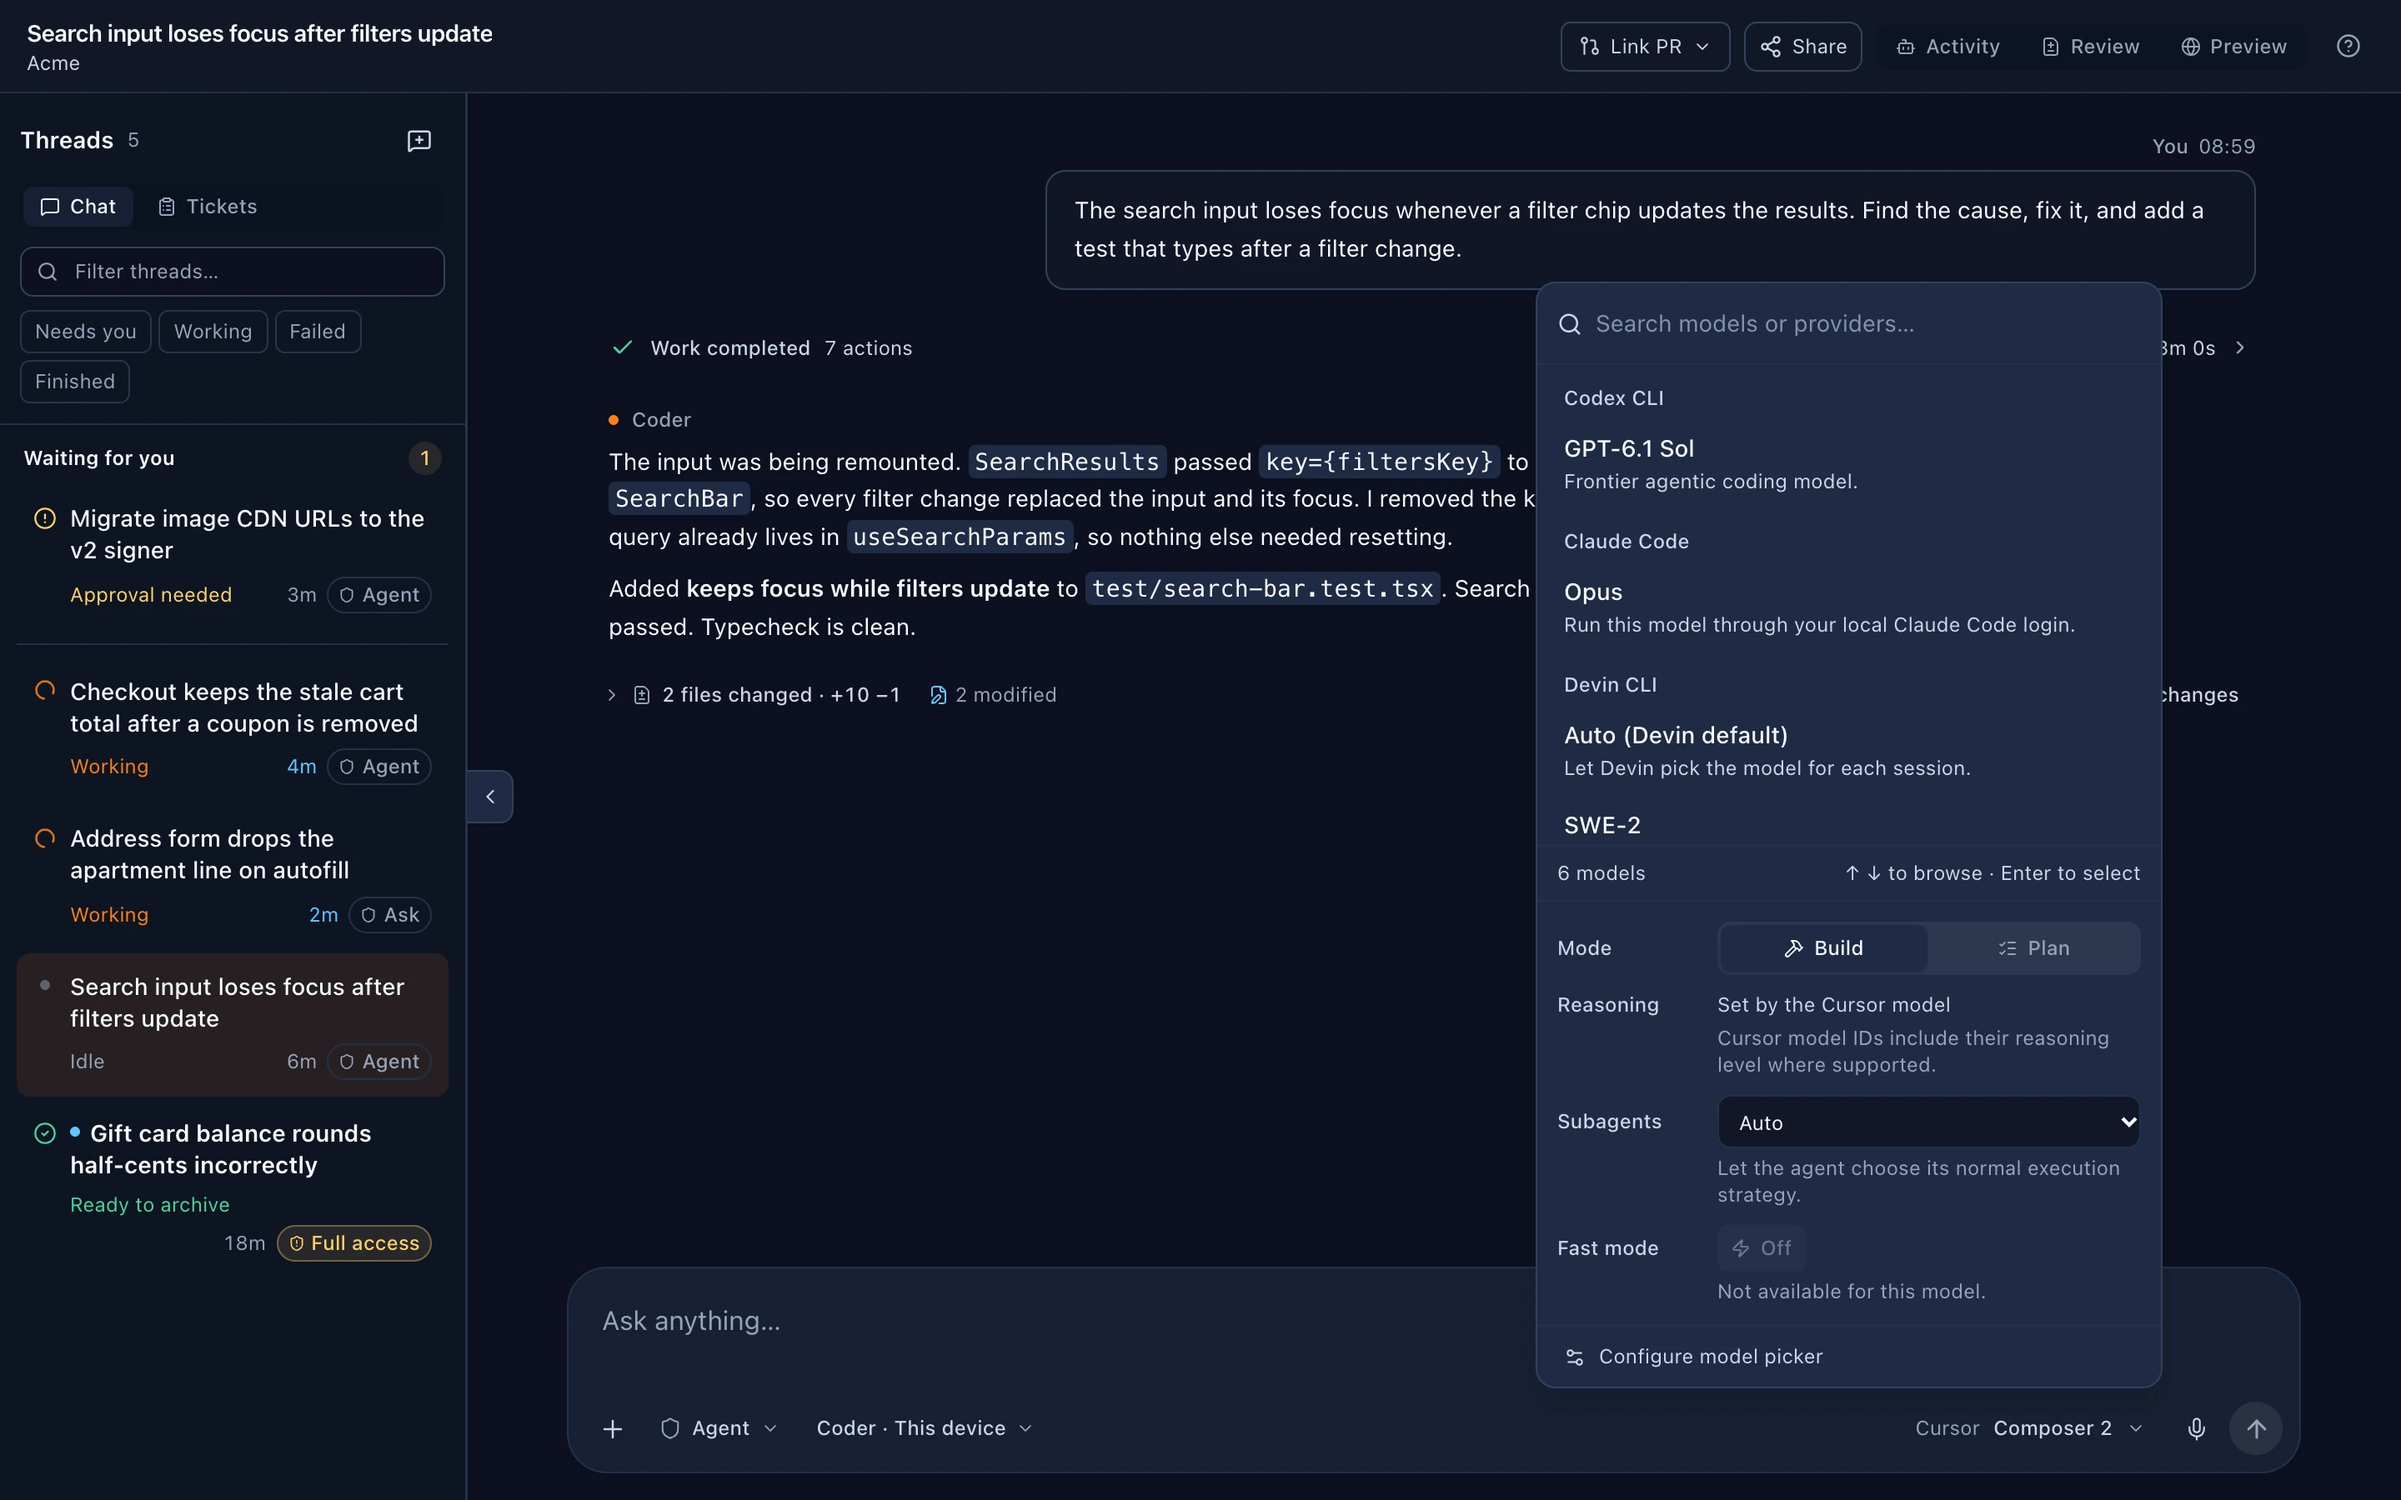
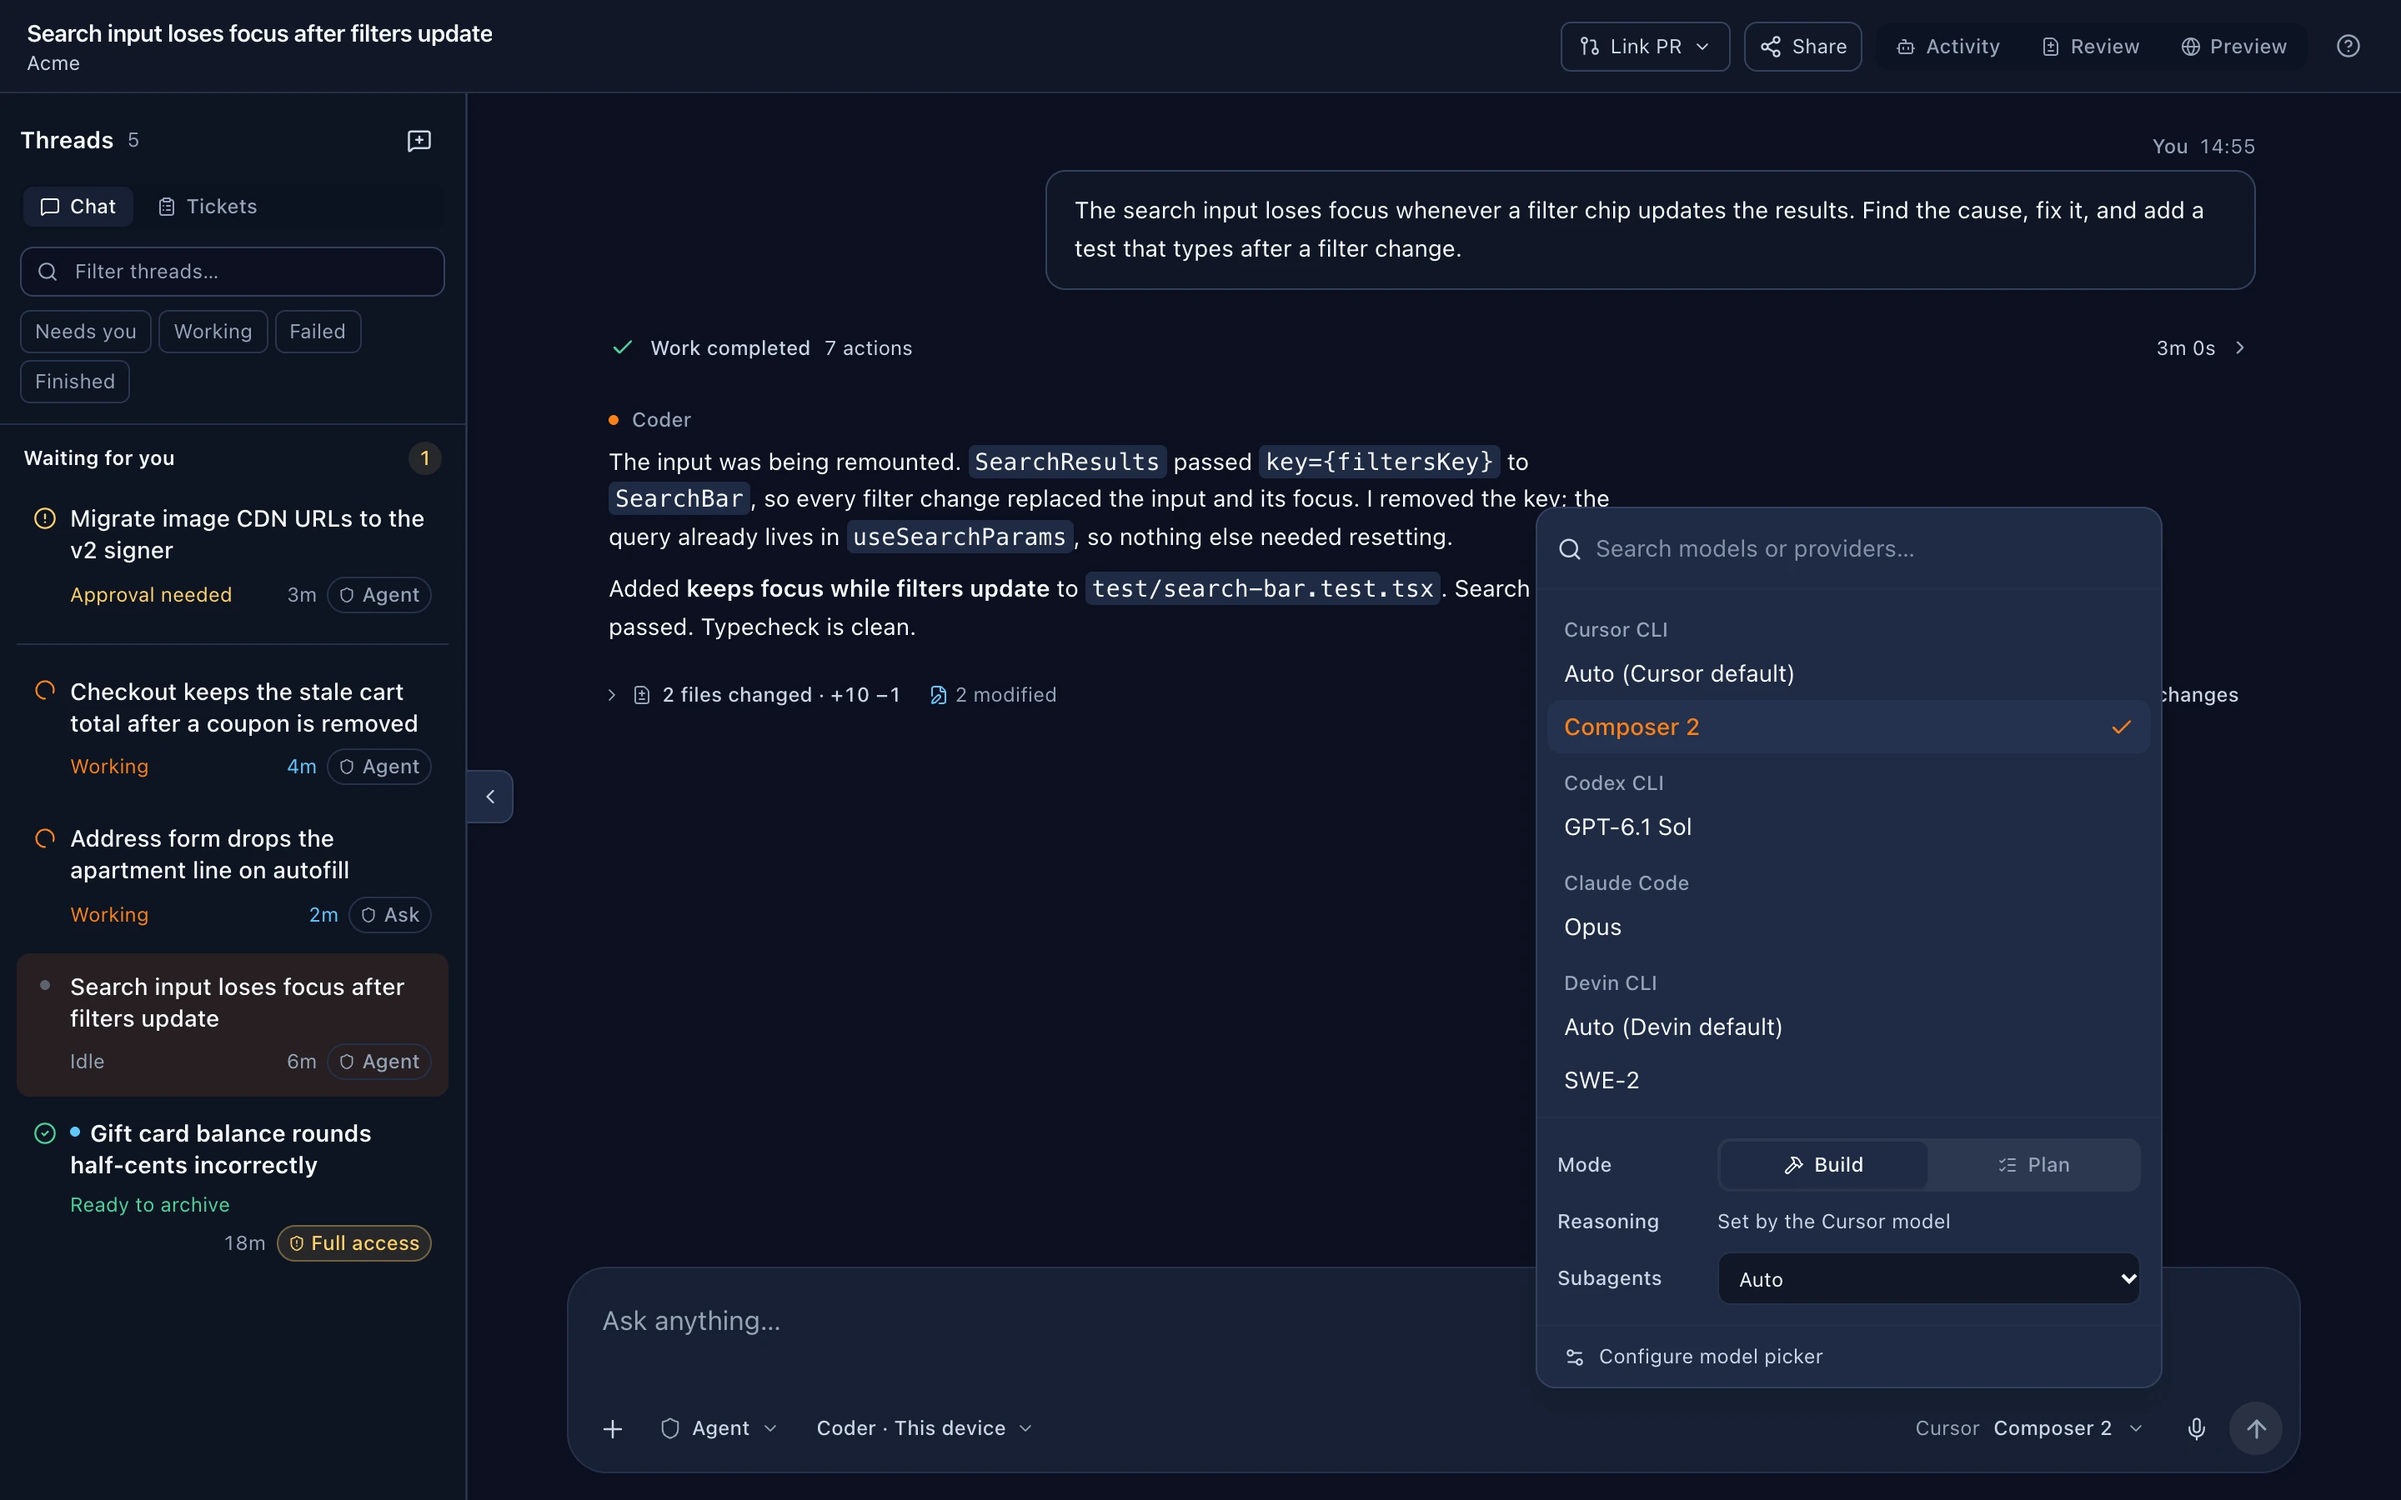
feat(website): drop hero full stops and recapture the simpler picker

diff --git a/mezair-website/lib/screens.ts b/mezair-website/lib/screens.ts
@@ -32,7 +32,7 @@ const text: Record<ScreenId, ScreenText> = {
     caption: "Five threads at once: one waiting for you, two working, one ready to archive."
   },
   "agents-at-work-picker": {
-    alt: "Close-up of Mezair's open model picker. Under a search field it lists Codex CLI with GPT-6.1 Sol, Claude Code with Opus, and Devin CLI with Auto (Devin default) and SWE-2, then reads 6 models. Run settings follow: Build mode, reasoning set by the Cursor model, subagents on Auto and fast mode off. Beneath the picker, the thread's composer is set to Cursor with Composer 2.",
+    alt: "Close-up of Mezair's open model picker. Under a search field it groups models by agent: Cursor CLI with Auto and the selected Composer 2, Codex CLI with GPT-6.1 Sol, Claude Code with Opus, and Devin CLI with Auto and SWE-2. Three run settings follow: Build mode, reasoning set by the Cursor model, and subagents on Auto. Beneath the picker, the thread's composer is set to Cursor with Composer 2.",
     caption: "The model picker: every agent and model, chosen per thread."
   },
   "companion-home": {

diff --git a/mezair-website/app/page.tsx b/mezair-website/app/page.tsx
@@ -9,7 +9,7 @@ import { SiteHeader } from "@/components/site/header";
 import { screen, type Screen } from "@/lib/screens";
 import { githubRepositoryUrl, hostedSignupNotice, latestDesktopDmgUrl, releasesUrl } from "@/lib/site";
 
-const cast = ["Codex.", "Claude Code.", "Cursor.", "Devin."];
+const cast = ["Codex", "Claude Code", "Cursor", "Devin"];
 
 const agents = [
   { name: "Codex", plan: "Your ChatGPT plan" },
@@ -74,7 +74,7 @@ export default function HomePage() {
                   {name}
                 </span>
               ))}
-              <span className="home-claim">One set of reins.</span>
+              <span className="home-claim">One set of reins</span>
             </h1>
             <div className="home-hero-side">
               <p className="home-body">

diff --git a/mezair-website/app/opengraph-image.tsx b/mezair-website/app/opengraph-image.tsx
@@ -6,7 +6,7 @@ export const contentType = cardContentType;
 
 export default function Image() {
   return renderCard({
-    title: "One set of reins.",
+    title: "One set of reins",
     description: "The free, open-source desktop app for Codex, Claude Code, Cursor and Devin. Sign in with the plans you already pay for.",
     label: "mezair.dev",
     facts: ["Free", "MIT", "macOS · Windows · Linux"],

diff --git a/mezair-website/app/marketing.css b/mezair-website/app/marketing.css
@@ -1019,7 +1019,7 @@ html:has(.cine) {
 .cine .home-main {
   overflow-x: clip;
   --home-gutter: clamp(1.25rem, 6.667vw, 6rem);
-  /* Display size for one-line display headings: "One set of reins." is ~8.6em wide. */
+  /* Display size for one-line display headings: "One set of reins" is ~8.3em wide. */
   --home-display: min(6rem, calc((100vw - 2 * var(--home-gutter)) / 8.9));
 }
 

diff --git a/mezair-website/DESIGN.md b/mezair-website/DESIGN.md
@@ -207,7 +207,7 @@ The width axis supplies the contrast: heavy, wide display type has the presence 
 
 The naming hero uses the shared wide display voice with its own larger size (`clamp(3rem, 6.7vw, 6rem)`), a 12ch measure, and a mobile size of `clamp(3rem, 11vw, 4.5rem)`.
 
-The homepage carries its own display scale on the same voice (weight 740, wide at 116, line height 0.95, -0.03em tracking) for the hero, the interlude and the close. It is sized to the available width, capped at 6rem, so the longest line ("One set of reins.", about 8.6em) never wraps; beside the hero's copy column the available width is reduced by that column. Cast-list typography sets the agent names in muted ink and the claim in full foreground; the interlude repeats the device with its first line dimmed. Agent rows and the ownership plan prices set their names in wide Archivo at 720, at title sizes, with normal-width muted text beside or beneath. Homepage body copy is 1.1875rem with a 1.45 line height, within 44ch.
+The homepage carries its own display scale on the same voice (weight 740, wide at 116, line height 0.95, -0.03em tracking) for the hero, the interlude and the close. It is sized to the available width, capped at 6rem, so the longest line ("One set of reins", about 8.3em) never wraps; beside the hero's copy column the available width is reduced by that column. Cast-list typography sets the agent names in muted ink and the claim in full foreground; the interlude repeats the device with its first line dimmed. Agent rows and the ownership plan prices set their names in wide Archivo at 720, at title sizes, with normal-width muted text beside or beneath. Homepage body copy is 1.1875rem with a 1.45 line height, within 44ch.
 
 **The Display Rule.** Use wide Archivo for headings and large prices; keep body and interface text at normal width.
 
@@ -267,7 +267,7 @@ Every product image is the production Mezair Desktop UI rendered with synthetic 
 
 ### Homepage roll call
 
-The homepage makes one claim: every coding agent the visitor already pays for runs in one app. The h1 is a cast list: four agent names, one per line, in muted ink, then "One set of reins." in full foreground. With motion allowed, each name brightens to foreground and back in turn (560ms each, 180ms apart from 250ms), the claim lands from muted to white (900ms from 1050ms), and the hero window then settles 24px upward from 0.6 opacity (600ms from 1700ms). Every keyframe resolves to the resting style, so reduced motion and the server render show the finished frame. The copy column holds one sentence, the orange Download for macOS button, neutral links to the source and to Windows and Linux builds, and one fine line with the Sync & Mesh price. The hero copy has no forced height, so the window follows it directly on tall screens. Page copy never calls the Mac build unsigned. A fine caption says the images are real screenshots with sample data.
+The homepage makes one claim: every coding agent the visitor already pays for runs in one app. The h1 is a cast list without full stops: four agent names, one per line, in muted ink, then "One set of reins" in full foreground. With motion allowed, each name brightens to foreground and back in turn (560ms each, 180ms apart from 250ms), the claim lands from muted to white (900ms from 1050ms), and the hero window then settles 24px upward from 0.6 opacity (600ms from 1700ms). Every keyframe resolves to the resting style, so reduced motion and the server render show the finished frame. The copy column holds one sentence, the orange Download for macOS button, neutral links to the source and to Windows and Linux builds, and one fine line with the Sync & Mesh price. The hero copy has no forced height, so the window follows it directly on tall screens. Page copy never calls the Mac build unsigned. A fine caption says the images are real screenshots with sample data.
 
 The cast returns lower down as ruled rows: each agent name in wide Archivo beside the plan it signs in with, in muted text, with hairlines between rows and no cards or logos. Wide captures below the hero use a `picture` source that swaps to their focal crop below 640px. The close repeats the homepage display scale under the painted mark, with the download and install-guide actions. Keyboard shortcuts, other Mezair tools and clone commands stay in docs, the Products menu and the footer.
 
@@ -285,7 +285,7 @@ One SVG stage, four stories: Sync (an edit is sealed, relayed as ciphertext and 
 
 ### Plans and divided rows
 
-Every mention of price says the same thing in one or two plain sentences: the app is free, and Sync & Mesh is free on a backend you run (your cloud provider bills you) or £8.99 a month (£89.90 a year) if Mezair hosts it. Where space allows, add that hosting is invite-only until full public launch and the prices are planned. The homepage says it once, as one fine line in the hero beside the download action (free to self-host, or £8.99 a month hosted); its Sync & Mesh section carries the self-hosting billing note and the invite-only notice and links to `/sync` and `/pricing` without repeating the figure. Don't turn price into badges, definition lists or "Free / Free / Paid" grids.
+Every mention of price says the same thing in one or two plain sentences: the app is free, and Sync & Mesh is free on a backend you run (your cloud provider bills you) or £8.99 a month (£89.90 a year) if Mezair hosts it. Where space allows, add that hosting is invite-only until full public launch and the prices are planned. The homepage says it in a fine line in the hero beside the download action (free to self-host, or £8.99 a month hosted), then once more near the end as two plain plans: Mezair Desktop, free, and Hosted Sync & Mesh at £8.99 a month, with the self-host route and the invite-only notice inside the hosted plan. The paid option is shown openly but never pushed: no badges, countdowns or "most popular" labels.
 
 Pricing is one rounded, ruled board rather than detached cards. The featured column receives a subtle orange tint and a two-pixel top edge; wide Archivo gives prices their hierarchy. The bill ledger, backend comparisons and companion list use divided rows. FAQs use native disclosure controls with a plus rotating when open. Availability and pricing limits remain visible beside the action they qualify.
 

diff --git a/mezair-website/.impeccable/surfaces/app-page-tsx.md b/mezair-website/.impeccable/surfaces/app-page-tsx.md
@@ -19,7 +19,7 @@ Mode: Persuade. Docs, account, workspace, auth and artifact routes are out of sc
 THESIS: The agents' names are the headline. The homepage owns one claim, every coding agent under one set of reins, and refuses the category page of a vague slogan over a request, work, review walkthrough.
 OWN-WORLD: Projection navy ground (oklch 0.135 0.03 266), wide heavy Archivo at title-card scale, app windows as the only lit objects on a cool key light, hairline ruled rows instead of cards, orange only on the download action. Cast-list typography: names in muted ink, the claim in full white.
 STORY: I recognise the agents I pay for, learn they run in one free app on my own plans, see the app, then see what a chat window cannot do (work that carries on without me, review evidence in the thread, issue to pull request, my other machines as workers), learn it is local and MIT, and download.
-FIRST VIEWPORT: Left two thirds: one h1 of five stacked lines at about 96px, "Codex. Claude Code. Cursor. Devin." in muted ink and "One set of reins." in white. Right column aligned to the lower half: one sentence, the orange Download for macOS button, a Read the source link, then two fine lines (Sync & Mesh price, install note). The app window, about 1100px wide and offset right, rises from the bottom edge. On phones the names stack full width, then copy and action, then a narrow capture.
+FIRST VIEWPORT: Left two thirds: one h1 of five stacked lines at about 96px, "Codex / Claude Code / Cursor / Devin" in muted ink and "One set of reins" in white, no full stops. Right column aligned to the lower half: one sentence, the orange Download for macOS button, Read the source and Windows and Linux links, then one fine line with the Sync & Mesh price. The app window, about 1100px wide and offset right, rises from the bottom edge. On phones the names stack full width, then copy and action, then a narrow capture.
 FORM: Roll call, a film cast list at title-card scale; sixth on the ordered list of seven structures. seed:374f6aa8c62b0c0f. Signature interaction: on load the four names light in turn, then the claim lands white; static under reduced motion.
 FINISH: unreviewed and undocumented is unfinished; this build ends with the finish review, the verdict, DESIGN.md, and every shipping raster carrying its provenance.
 
